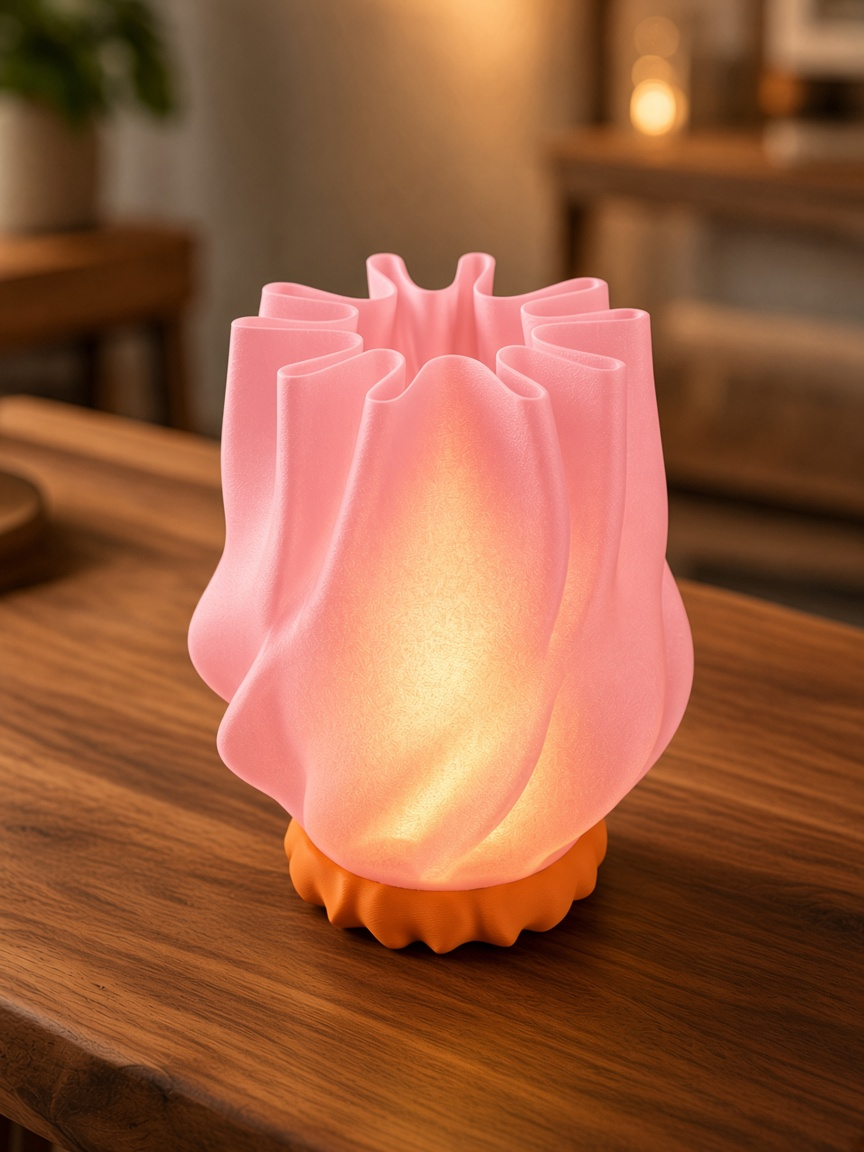
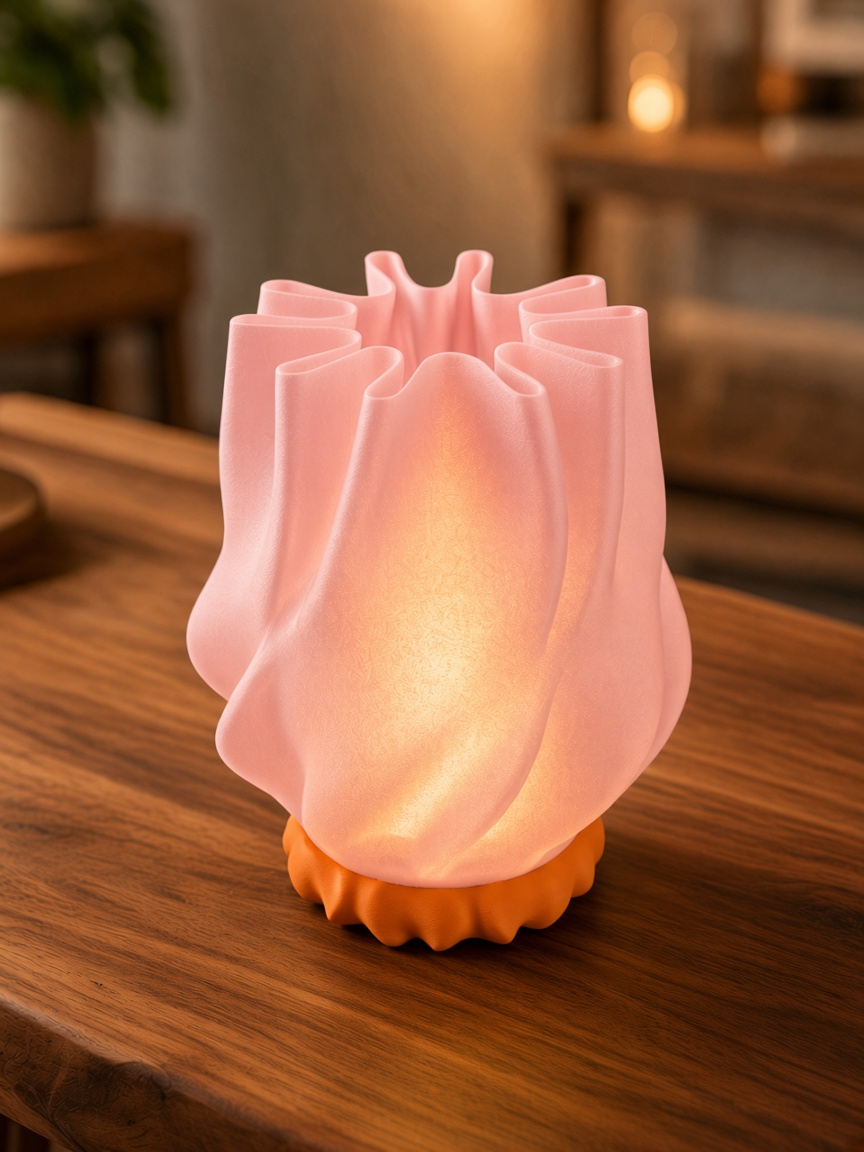
add sea coral

diff --git a/assets/css/catalog.css b/assets/css/catalog.css
@@ -396,37 +396,72 @@ body.has-pinned-bar .catalog-main {
   top: 10px;
   left: 10px;
   display: flex;
-  flex-wrap: wrap;
+  flex-direction: column;
+  align-items: center;
   gap: 7px;
-  max-width: calc(100% - 20px);
-  padding: 6px 8px;
+  padding: 7px 8px;
   border-radius: 999px;
   background: rgba(255, 255, 255, 0.82);
   backdrop-filter: blur(10px);
   -webkit-backdrop-filter: blur(10px);
   box-shadow: 0 4px 16px rgba(47, 51, 40, 0.12);
+  border: 1px solid rgba(255, 255, 255, 0.65);
   transition: opacity 0.2s ease;
 }
 
 .color-swatch {
-  width: 24px;
-  height: 24px;
+  position: relative;
+  width: 26px;
+  height: 26px;
   padding: 0;
-  border: 2px solid #fff;
+  border: 2px solid rgba(255, 255, 255, 0.95);
   border-radius: 50%;
   background: var(--swatch, #ccc);
-  box-shadow: inset 0 0 0 1px rgba(0, 0, 0, 0.12), 0 2px 6px rgba(0, 0, 0, 0.15);
+  box-shadow: 0 2px 8px rgba(47, 51, 40, 0.18);
   cursor: pointer;
-  transition: transform 0.18s var(--ease-out), outline 0.15s ease;
+  transition: transform 0.18s var(--ease-out), box-shadow 0.15s ease;
+  flex-shrink: 0;
+}
+
+.color-swatch[aria-selected='true'] {
+  box-shadow:
+    0 0 0 2px var(--b-accent-deep),
+    0 2px 8px rgba(47, 51, 40, 0.18);
+  outline: none;
+}
+
+.color-swatch--translucent {
+  background: transparent;
+  overflow: hidden;
+}
+
+.color-swatch--translucent::before {
+  content: '';
+  position: absolute;
+  inset: 0;
+  border-radius: inherit;
+  background-color: #ece7de;
+  background-image:
+    linear-gradient(45deg, rgba(0, 0, 0, 0.06) 25%, transparent 25%),
+    linear-gradient(-45deg, rgba(0, 0, 0, 0.06) 25%, transparent 25%),
+    linear-gradient(45deg, transparent 75%, rgba(0, 0, 0, 0.06) 75%),
+    linear-gradient(-45deg, transparent 75%, rgba(0, 0, 0, 0.06) 75%);
+  background-size: 5px 5px;
+  background-position: 0 0, 0 2.5px, 2.5px -2.5px, -2.5px 0;
+}
+
+.color-swatch--translucent::after {
+  content: '';
+  position: absolute;
+  inset: 0;
+  border-radius: inherit;
+  background: var(--swatch, #ccc);
+  opacity: var(--swatch-alpha, 0.48);
+  box-shadow: inset 0 0 12px rgba(255, 255, 255, 0.35);
 }
 
 .color-swatch:hover {
   transform: scale(1.08);
-}
-
-.color-swatch[aria-selected='true'] {
-  outline: 2px solid var(--b-accent-deep);
-  outline-offset: 2px;
 }
 
 .color-selected-label {
@@ -442,44 +477,50 @@ body.has-pinned-bar .catalog-main {
 
 .media-tabs {
   position: absolute;
-  z-index: 4;
-  left: 50%;
-  bottom: 10px;
-  transform: translateX(-50%);
+  z-index: 5;
+  top: 10px;
+  right: 10px;
+  left: auto;
+  bottom: auto;
+  transform: none;
   display: flex;
-  gap: 4px;
-  padding: 5px 6px;
+  flex-direction: column;
+  align-items: center;
+  gap: 6px;
+  padding: 7px 8px;
   border-radius: 999px;
-  background: rgba(47, 51, 40, 0.52);
-  backdrop-filter: blur(12px);
-  -webkit-backdrop-filter: blur(12px);
-  border: 1px solid rgba(255, 255, 255, 0.14);
-  box-shadow: 0 6px 18px rgba(0, 0, 0, 0.2);
+  background: rgba(255, 255, 255, 0.82);
+  backdrop-filter: blur(10px);
+  -webkit-backdrop-filter: blur(10px);
+  border: 1px solid rgba(255, 255, 255, 0.65);
+  box-shadow: 0 4px 16px rgba(47, 51, 40, 0.12);
 }
 
 .tab-btn {
   display: inline-flex;
   align-items: center;
   justify-content: center;
-  width: 34px;
-  height: 34px;
+  width: 32px;
+  height: 32px;
   border: none;
   background: transparent;
-  color: rgba(255, 255, 255, 0.92);
+  color: var(--b-ink-deep);
   padding: 0;
   border-radius: 50%;
+  aspect-ratio: 1;
   cursor: pointer;
   transition: background 0.18s ease, color 0.18s ease, transform 0.18s var(--ease-out);
 }
 
 .tab-btn:hover:not(:disabled) {
-  background: rgba(255, 255, 255, 0.14);
+  background: rgba(47, 51, 40, 0.08);
   transform: scale(1.04);
 }
 
 .tab-btn.active {
-  background: #fff;
-  color: var(--b-ink-deep);
+  background: var(--b-ink-deep);
+  color: #fff;
+  border-radius: 50%;
 }
 
 .tab-btn:disabled {
@@ -502,13 +543,12 @@ body.has-pinned-bar .catalog-main {
   fill: #ff0000;
 }
 
-.tab-btn.active .tab-icon-youtube,
-.tab-btn:hover:not(:disabled) .tab-icon-youtube {
-  fill: currentColor;
+.tab-btn-youtube:not(.active) .tab-icon-youtube {
+  fill: #e53935;
 }
 
-.tab-btn-youtube:not(.active) .tab-icon-youtube {
-  fill: #ff4d4d;
+.tab-btn.active .tab-icon-youtube {
+  fill: currentColor;
 }
 
 .details-section {

diff --git a/assets/js/catalog.js b/assets/js/catalog.js
@@ -96,7 +96,14 @@ function renderColorSwatches(product) {
       const name = escapeHtml(c.name || c.id);
       const hex = sanitizeHex(c.hex);
       const selected = c.id === defaultId;
-      return `<button type="button" class="color-swatch" role="option" data-color-id="${escapeHtml(c.id)}" aria-label="${name}" aria-selected="${selected ? 'true' : 'false'}" style="--swatch:${escapeHtml(hex)}" title="${name}"></button>`;
+      const translucent = c.translucent === true;
+      const alpha =
+        typeof c.opacity === 'number' && c.opacity >= 0 && c.opacity <= 1 ? c.opacity : 0.48;
+      const swatchClass = translucent ? 'color-swatch color-swatch--translucent' : 'color-swatch';
+      const style = translucent
+        ? `--swatch:${escapeHtml(hex)};--swatch-alpha:${alpha}`
+        : `--swatch:${escapeHtml(hex)}`;
+      return `<button type="button" class="${swatchClass}" role="option" data-color-id="${escapeHtml(c.id)}" aria-label="${name}" aria-selected="${selected ? 'true' : 'false'}" style="${style}" title="${name}"></button>`;
     })
     .join('');
 

diff --git a/catalog.html b/catalog.html
@@ -35,7 +35,7 @@
   <script>
     (function () {
       var base = window.__CATALOG_ASSET_BASE__;
-      document.getElementById('catalog-css').href = base + 'assets/css/catalog.css?v=23';
+      document.getElementById('catalog-css').href = base + 'assets/css/catalog.css?v=25';
     })();
   </script>
 </head>
@@ -88,7 +88,7 @@
       var back = document.getElementById('back-home');
       if (back) back.href = base + 'index.html';
       var s = document.createElement('script');
-      s.src = base + 'assets/js/catalog.js?v=23';
+      s.src = base + 'assets/js/catalog.js?v=25';
       s.defer = true;
       s.onerror = function () {
         var root = document.getElementById('catalog-root');
